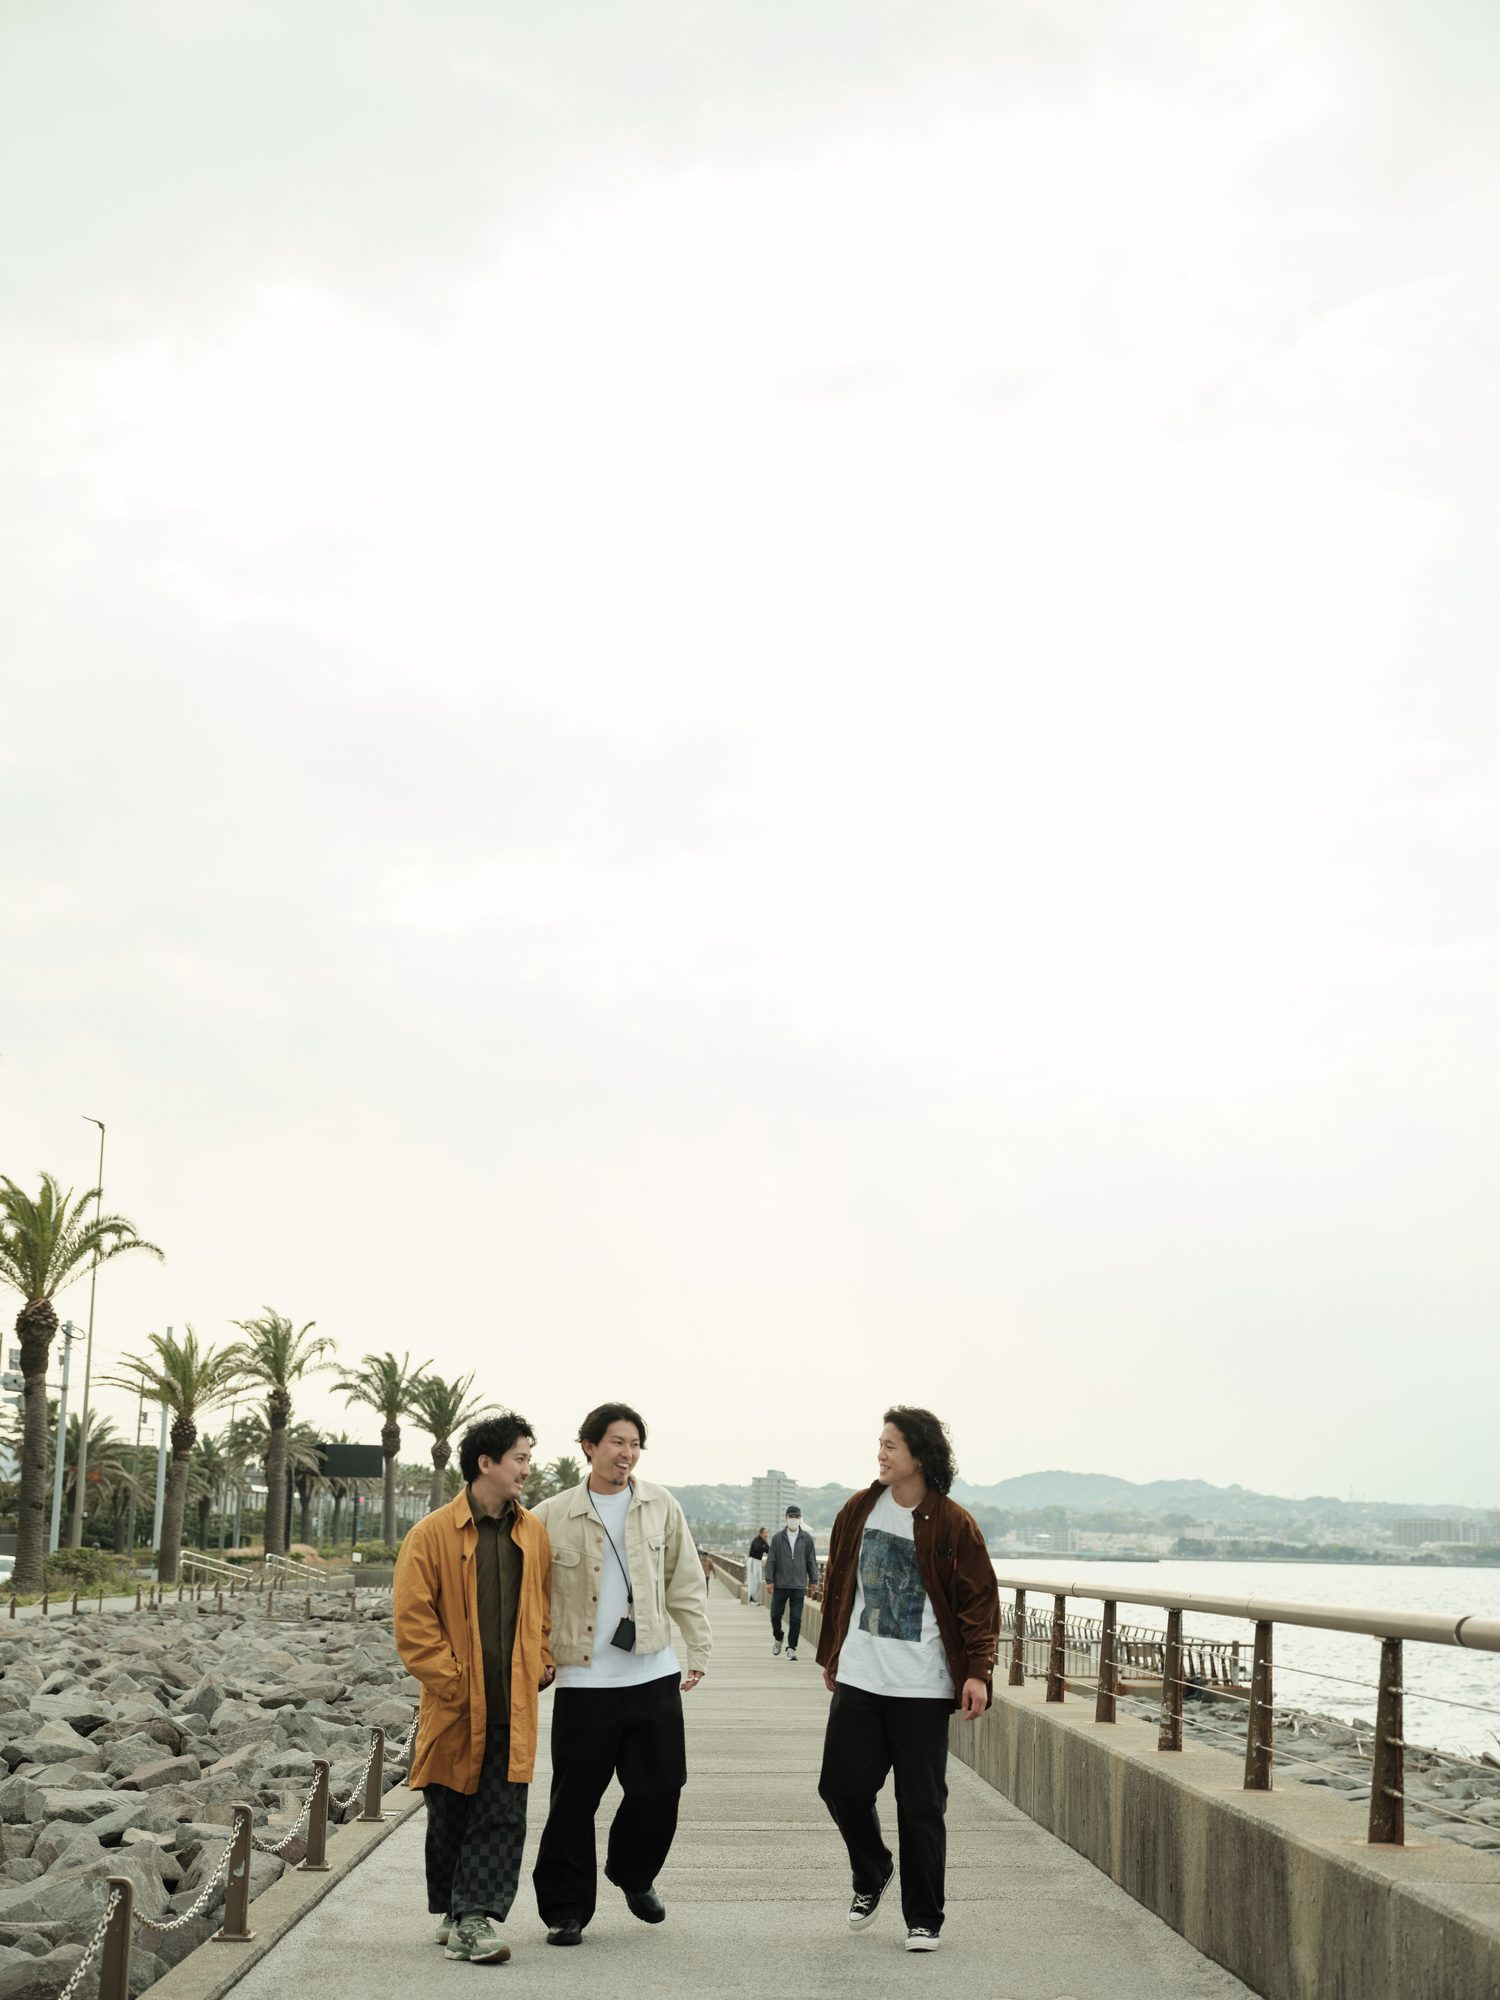
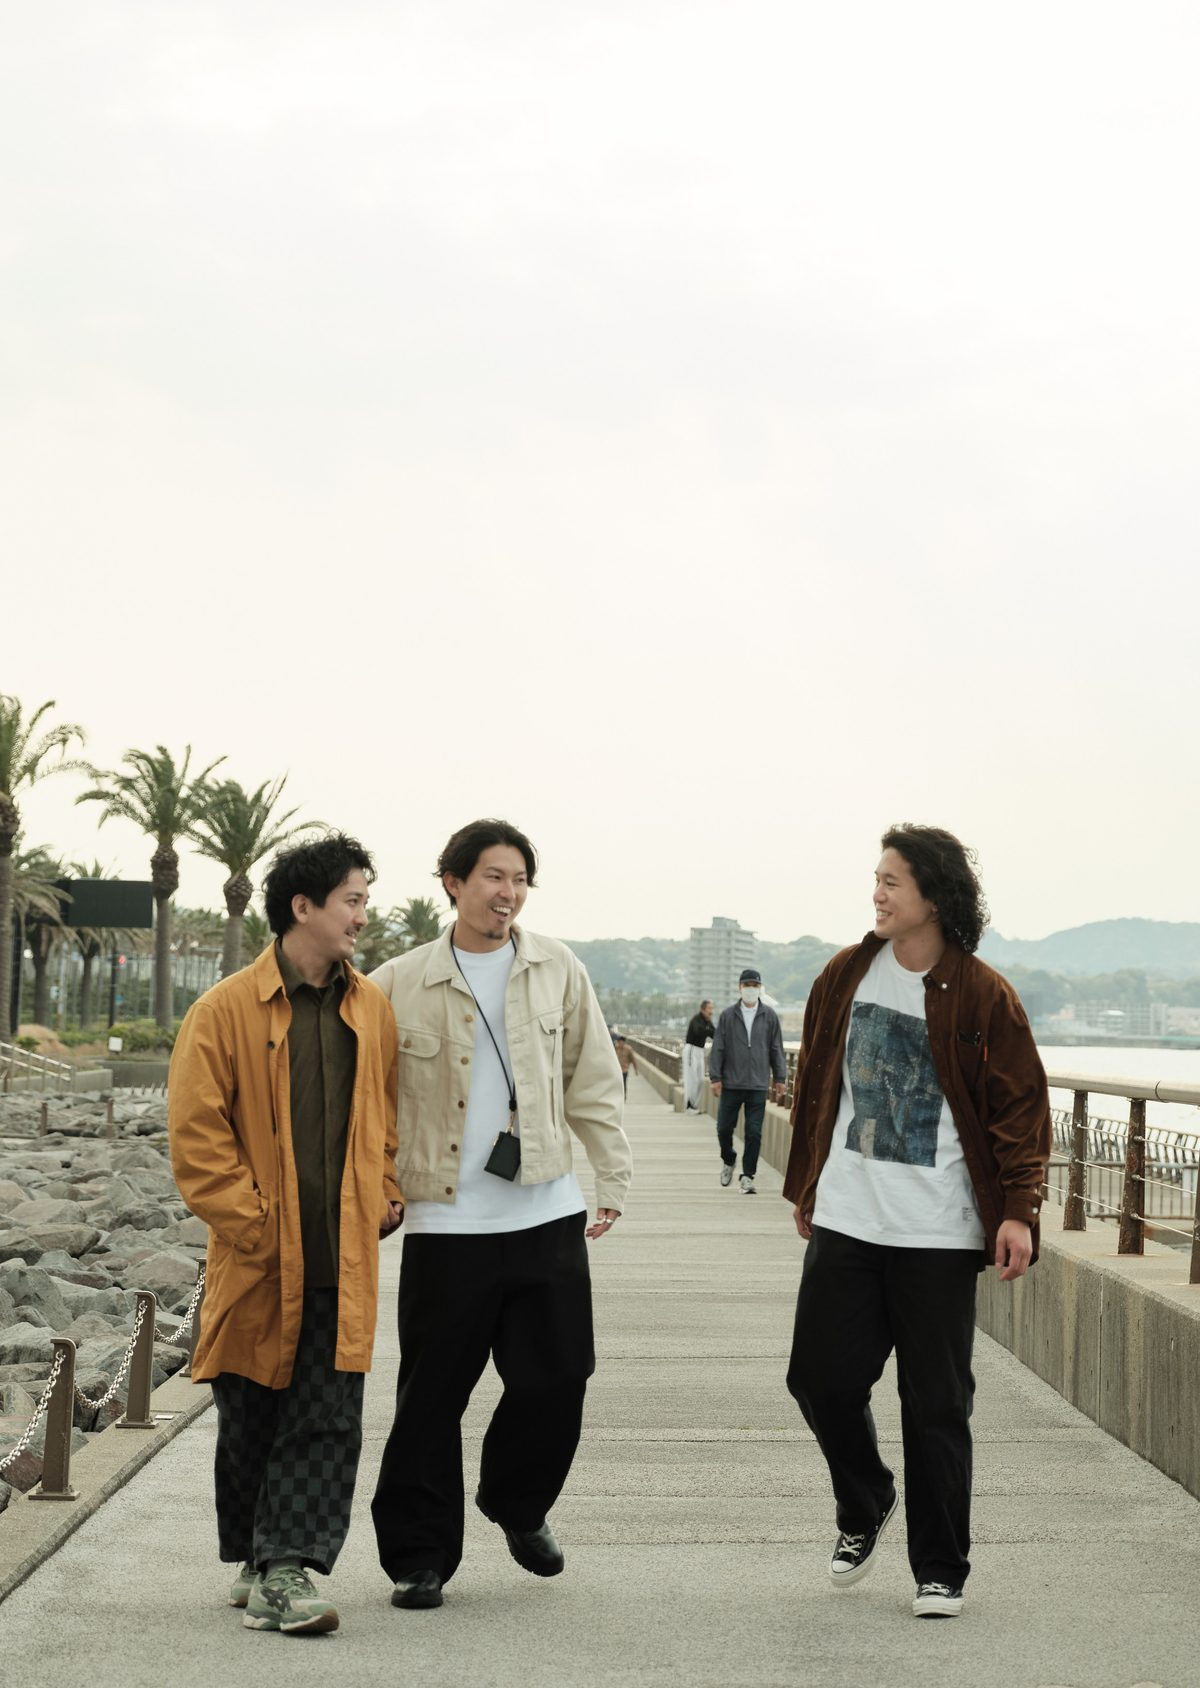
30代の生き方LP v2：冒頭の写真を3人に寄せ、改行とフッターのロゴをFigmaに合わせた
- PC冒頭の写真：元画像の3人のまわりを切り出し（1200×1688・190KB）
- 改行：POOLOについて・参加者の声・進め方・よくある質問の区切りをFigmaに合わせた
- フッター：TABIPPOロゴの余白を落として大きくし、POOLOと文字の中心をそろえた

diff --git a/event-30s-v2-260929/index.html b/event-30s-v2-260929/index.html
@@ -52,6 +52,7 @@ ul, ol { list-style: none; }
 a { color: inherit; text-decoration: none; }
 img { display: block; max-width: 100%; }
 .nb { white-space: nowrap; }
+br.pc-br { display: none; }
 .num { font-family: var(--en); font-weight: 500; }
 /* 文節で改行する（Chrome系）。非対応のブラウザでは通常の改行に戻る */
 .mc, .lead, .h2, .body, .q-text, .q-help, .step p, .quote, .faq-a, .faq-q, .ov dd, .fa-main, .fa-sub {
@@ -233,9 +234,10 @@ img { display: block; max-width: 100%; }
 /* ---- フッター ---- */
 .ft { padding: 32px 0 36px; }
 .ft .in > * + * { margin-top: 16px; }
-.ft-logos { display: flex; align-items: center; gap: 24px; }
-.ft-logos .poolo { width: 64px; }
-.ft-logos .tabippo { width: 78px; }
+.ft-logos { display: flex; align-items: flex-start; gap: 32px; }
+/* ロゴの文字（POOLO／TABIPPO）の縦の中心をそろえる。POOLOは下にキャッチ、TABIPPOは右上に丸があるため枠の中心ではずれる */
+.ft-logos .poolo { width: 64px; margin-top: 4.5px; }
+.ft-logos .tabippo { width: 96px; }
 .ft p { font-size: 11px; color: var(--ink-72); }
 .ft-texts p + p { margin-top: 16px; }
 
@@ -269,6 +271,9 @@ img { display: block; max-width: 100%; }
 
   .hd .in { height: 75px; }
   .pc-only { display: block; }
+  .pc-nb { white-space: nowrap; }
+  br.pc-br { display: inline; }
+  br.sp-br { display: none; }
   .sp-only { display: none; }
   .feel .in { padding-inline: 0; }
   .feel-photo img { height: auto; aspect-ratio: 3 / 2; }
@@ -287,7 +292,7 @@ img { display: block; max-width: 100%; }
   .lead { font-size: 16px; }
   .fv-copy .btn { width: 376px; }
   .fv-photo { display: block; flex: 1; margin-left: 80px; border-left: 8px solid var(--brand); }
-  .fv-photo img { width: 100%; height: 100%; object-fit: cover; object-position: 50% 85%; }
+  .fv-photo img { width: 100%; height: 100%; object-fit: cover; object-position: 50% 100%; }
 
   .feel { padding: 24px 0 96px; }
   .feel .in { display: grid; grid-template-columns: 480px 1fr; column-gap: 80px; align-items: center; }
@@ -336,6 +341,7 @@ img { display: block; max-width: 100%; }
   .faq { padding-block: 96px; }
   .faq-list { margin-top: 40px; display: grid; grid-template-columns: repeat(2, 1fr); column-gap: 40px; row-gap: 28px; }
   .faq-item + .faq-item { margin-top: 0; }
+  .faq-a { text-wrap: wrap; }
 
   .apply { padding-block: 96px; }
   .apply .in { display: grid; grid-template-columns: 560px 1fr; column-gap: 80px; align-items: center; }
@@ -440,8 +446,8 @@ height="0" width="0" style="display:none;visibility:hidden"></iframe></noscript>
       <li class="step"><h3>はじめに</h3><p class="body">参加したきっかけと自己紹介を、ひとことずつ。<span class="nb">旅先で肩書きを</span>名乗らないように、ここでも<span class="nb">肩書きの紹介は</span>なしにしています。</p></li>
       <li class="step"><h3>書く</h3><p class="body">30代のいまの違和感や、これまで続けてこられた理由、夢中になれたことを書き出します。</p></li>
       <li class="step"><h3>話す</h3><p class="body">3〜4人で、書いたことをそのまま話します。うまくまとめなくて大丈夫です。</p></li>
-      <li class="step"><h3>問いにする</h3><p class="body">書いた違和感を<span class="nb">「なぜ私は〜なのか？」</span>のような問いの形にします。POOLOでは、こうして立てた問いを「探究テーマ」と呼んでいます。</p></li>
-      <li class="step"><h3>また話して、書く</h3><p class="body">問いをもう一度話したあと、<span class="nb">「わたしは、＿＿を</span><span class="nb">問います。」</span>と一文で書いて終わります。</p></li>
+      <li class="step"><h3>問いにする</h3><p class="body">書いた違和感を<span class="nb">「なぜ私は〜なのか？」</span><span class="pc-nb">のような問いの形に</span>します。POOLOでは、<span class="pc-nb">こうして立てた問いを</span><span class="nb">「探究テーマ」と</span>呼んでいます。</p></li>
+      <li class="step"><h3>また話して、書く</h3><p class="body">問いをもう一度<span class="nb">話したあと、</span><span class="nb">「わたしは、＿＿を</span><span class="nb">問います。」</span>と<span class="nb">一文で書いて終わります。</span></p></li>
     </ol>
   </div>
 </section>
@@ -481,15 +487,15 @@ height="0" width="0" style="display:none;visibility:hidden"></iframe></noscript>
     </div>
     <ul class="voice-list">
       <li class="voice">
-        <p class="quote"><span class="mk">「</span>10年以上今の会社に勤めていますが、同期が次々と転職していき、自分はこのままでいいのか？と<span class="nb">もやもや</span>していました。もやもやを脱して、自分らしいキャリアを描くきっかけが得られたら嬉しいです。<span class="mk">」</span></p>
+        <p class="quote"><span class="mk">「</span>10年以上今の会社に勤めていますが、<span class="pc-nb">同期が次々と</span>転職していき、自分はこのままでいいのか？と<br>もやもやしていました。もやもやを脱して、自分らしいキャリアを描くきっかけが得られたら嬉しいです。<span class="mk">」</span></p>
         <p class="caption">メーカー・企画職／30代・体験会参加者</p>
       </li>
       <li class="voice">
-        <p class="quote"><span class="mk">「</span>これ誰にも言えてなかったんですけど、仕事というものに熱中できなくなってきてしまっている気がしてて、一通り経験して面倒になった？飽きた？昔の方がパフォーマンスもよかった気がする・・年のせい・・？<span class="mk">」</span></p>
+        <p class="quote"><span class="mk">「</span>これ誰にも言えてなかったんですけど、<span class="nb">仕事というものに</span>熱中できなくなってきてしまっている気がしてて、一通り経験して<span class="nb">面倒になった？</span>飽きた？昔の方がパフォーマンスもよかった<span class="nb">気がする・・</span>年のせい・・？<span class="mk">」</span></p>
         <p class="caption">メーカー・企画開発職／30代・体験会参加者</p>
       </li>
       <li class="voice">
-        <p class="quote"><span class="mk">「</span>周りはライフステージがどんどん進んでるけど、自分は変わってなくて焦る。SNS見てるとモヤモヤする。本当にライフステージ変えたいのかわからない。今の状態でも幸せだけど、周りからの見え方が気になる。<span class="mk">」</span></p>
+        <p class="quote"><span class="mk">「</span>周りはライフステージがどんどん進んでるけど、自分は変わってなくて焦る。SNS見てるとモヤモヤする。本当にライフステージ変えたいのかわからない。<span class="nb">今の状態でも</span>幸せだけど、<br class="pc-br">周りからの見え方が気になる。<span class="mk">」</span></p>
         <p class="caption">在宅ワーク・事務職／30代・体験会参加者</p>
       </li>
     </ul>
@@ -503,8 +509,8 @@ height="0" width="0" style="display:none;visibility:hidden"></iframe></noscript>
     <div class="about-text">
       <h2 class="h2"><span class="en">POOLO</span>について</h2>
       <img class="about-kv sp-only" src="images/poolo_keyvisual.jpg" alt="POOLOのキービジュアル。旅と人生をつなぐ大人の学び" loading="lazy">
-      <p class="body">POOLO（ポーロ）は、旅を入り口に、自分の生き方・働き方を問い直す大人の学び場です。<span class="nb">2019年に開校し、</span>これまでに<span class="nb">1,200名以上が</span>参加しています。</p>
-      <p class="body">POOLOでは、「旅」で日常の外に出て視点を揺さぶり、「問い」で自分の言葉に置き換え、仲間に差し出して「共創」します。旅先で出会った、うまく言えない違和感が、問いの入り口になります。8ヶ月のオンラインプログラム<span class="nb">「POOLO LIFE」は、</span>この行き来をくり返す場です。</p>
+      <p class="body">POOLO（ポーロ）は、旅を入り口に、自分の生き方・働き方を問い直す大人の学び場です。<br class="sp-br"><span class="nb">2019年に開校し、</span>これまでに<span class="nb">1,200名以上が</span>参加しています。</p>
+      <p class="body">POOLOでは、「旅」で日常の外に出て視点を揺さぶり、「問い」で自分の言葉に置き換え、仲間に差し出して「共創」します。<br class="sp-br">旅先で出会った、うまく言えない違和感が、問いの入り口になります。8ヶ月のオンラインプログラム<br><span class="nb">「POOLO LIFE」は、</span>この行き来をくり返す場です。</p>
       <p class="body">この90分は、そのうち「問い」のところを体験する時間です。</p>
       <p class="caption pc-only">運営：株式会社TABIPPO／株式会社CODOLI<br>Peatix Community Award 2025 受賞</p>
     </div>
@@ -531,7 +537,7 @@ height="0" width="0" style="display:none;visibility:hidden"></iframe></noscript>
         <div class="ov-row"><dt>参加条件</dt><dd>顔出し・音声出しができる環境から、<span class="nb">90分間通して</span>ご参加ください。</dd></div>
       </dl>
       <div class="ov-notes">
-        <p class="small">PCからご参加ください。スマートフォンからの参加はご遠慮ください。</p>
+        <p class="small">PCからご参加ください。スマートフォンからの参加は<span class="nb">ご遠慮ください。</span></p>
         <p class="small">全員に、書く時間と話す時間があります。</p>
       </div>
     </div>
@@ -543,12 +549,12 @@ height="0" width="0" style="display:none;visibility:hidden"></iframe></noscript>
   <div class="in">
     <h2 class="h2">よくある質問</h2>
     <dl class="faq-list">
-      <div class="faq-item"><dt class="faq-q">うまく話せるか不安です。</dt><dd class="faq-a">まとまっていないことばも大切にします。自分のペースで話してみてください。</dd></div>
+      <div class="faq-item"><dt class="faq-q">うまく話せるか不安です。</dt><dd class="faq-a">まとまっていないことばも大切にします。<span class="pc-nb">自分のペースで</span>話してみてください。</dd></div>
       <div class="faq-item"><dt class="faq-q">ひとりでも参加できますか？</dt><dd class="faq-a">はい。ひとりでの参加も歓迎しています。<span class="nb">はっきりした</span>悩みがなくても参加できます。</dd></div>
-      <div class="faq-item"><dt class="faq-q">20代や40代でも参加できますか？</dt><dd class="faq-a">参加できます。30代の方を主な対象にしていますが、年齢の制限は設けていません。</dd></div>
-      <div class="faq-item"><dt class="faq-q">終わったあとに、相談はできますか？</dt><dd class="faq-a">希望する方には、当日立てた問いの壁打ちもしています。最後に希望をお聞きします。</dd></div>
+      <div class="faq-item"><dt class="faq-q">20代や40代でも参加できますか？</dt><dd class="faq-a">参加できます。30代の方を主な対象にしていますが、<span class="nb">年齢の制限は</span>設けていません。</dd></div>
+      <div class="faq-item"><dt class="faq-q">終わったあとに、相談はできますか？</dt><dd class="faq-a">希望する方には、当日立てた問いの壁打ちもしています。<span class="pc-nb">最後に希望を</span>お聞きします。</dd></div>
       <div class="faq-item"><dt class="faq-q">POOLO LIFEへの入会は必要ですか？</dt><dd class="faq-a">体験会のみの参加もできます。後半に5分ほど<span class="nb">POOLO LIFEの</span>紹介がありますが、その場で決めていただくものではありません。</dd></div>
-      <div class="faq-item"><dt class="faq-q">途中から参加できますか？</dt><dd class="faq-a">3〜4人での対話があるため、最初から最後まで参加できる日にお申し込みください。</dd></div>
+      <div class="faq-item"><dt class="faq-q">途中から参加できますか？</dt><dd class="faq-a">3〜4人での対話があるため、最初から最後まで<span class="nb">参加できる日に</span>お申し込みください。</dd></div>
     </dl>
   </div>
 </section>
@@ -575,7 +581,7 @@ height="0" width="0" style="display:none;visibility:hidden"></iframe></noscript>
   <div class="in">
     <div class="ft-logos">
       <a href="https://tabippo.net/poolo/" target="_blank" rel="noopener"><img class="poolo" src="images/poolo_logo03.png" alt="POOLO あたらしい旅の学校"></a>
-      <a href="https://tabippo.net/" target="_blank" rel="noopener"><img class="tabippo" src="images/tabippo_logo.png" alt="TABIPPO"></a>
+      <a href="https://tabippo.net/" target="_blank" rel="noopener"><img class="tabippo" src="images/tabippo_logo_trim.png" alt="TABIPPO"></a>
     </div>
     <div class="ft-texts">
       <p>旅と人生をつなぐ、大人の学び<br>株式会社TABIPPO／株式会社CODOLI</p>
